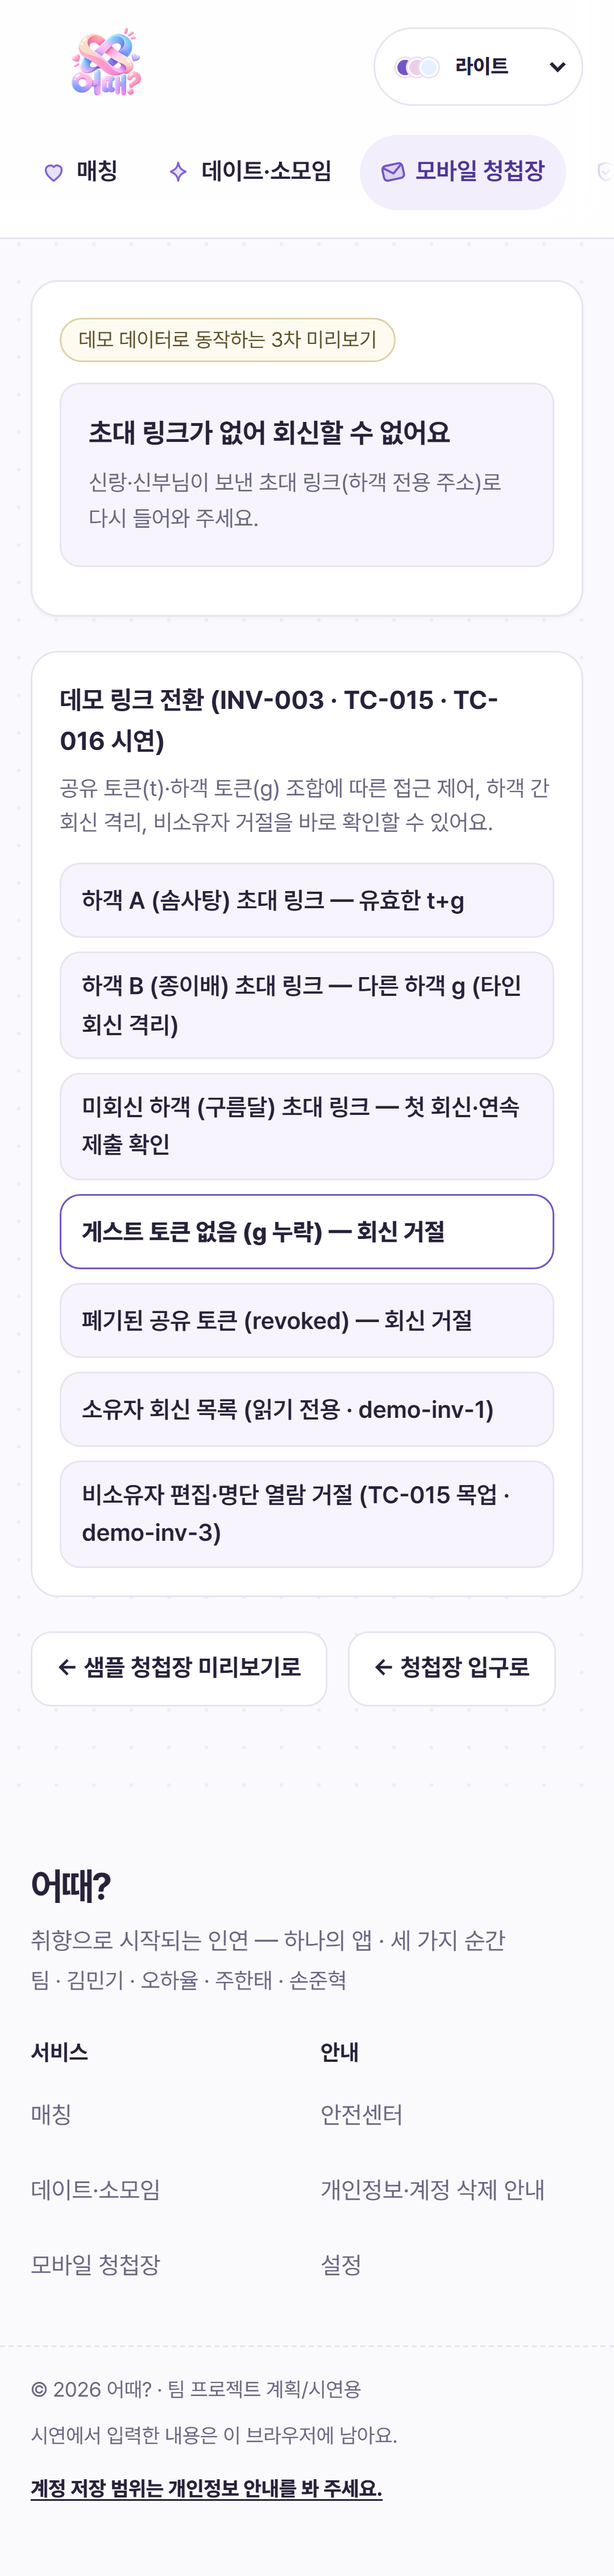
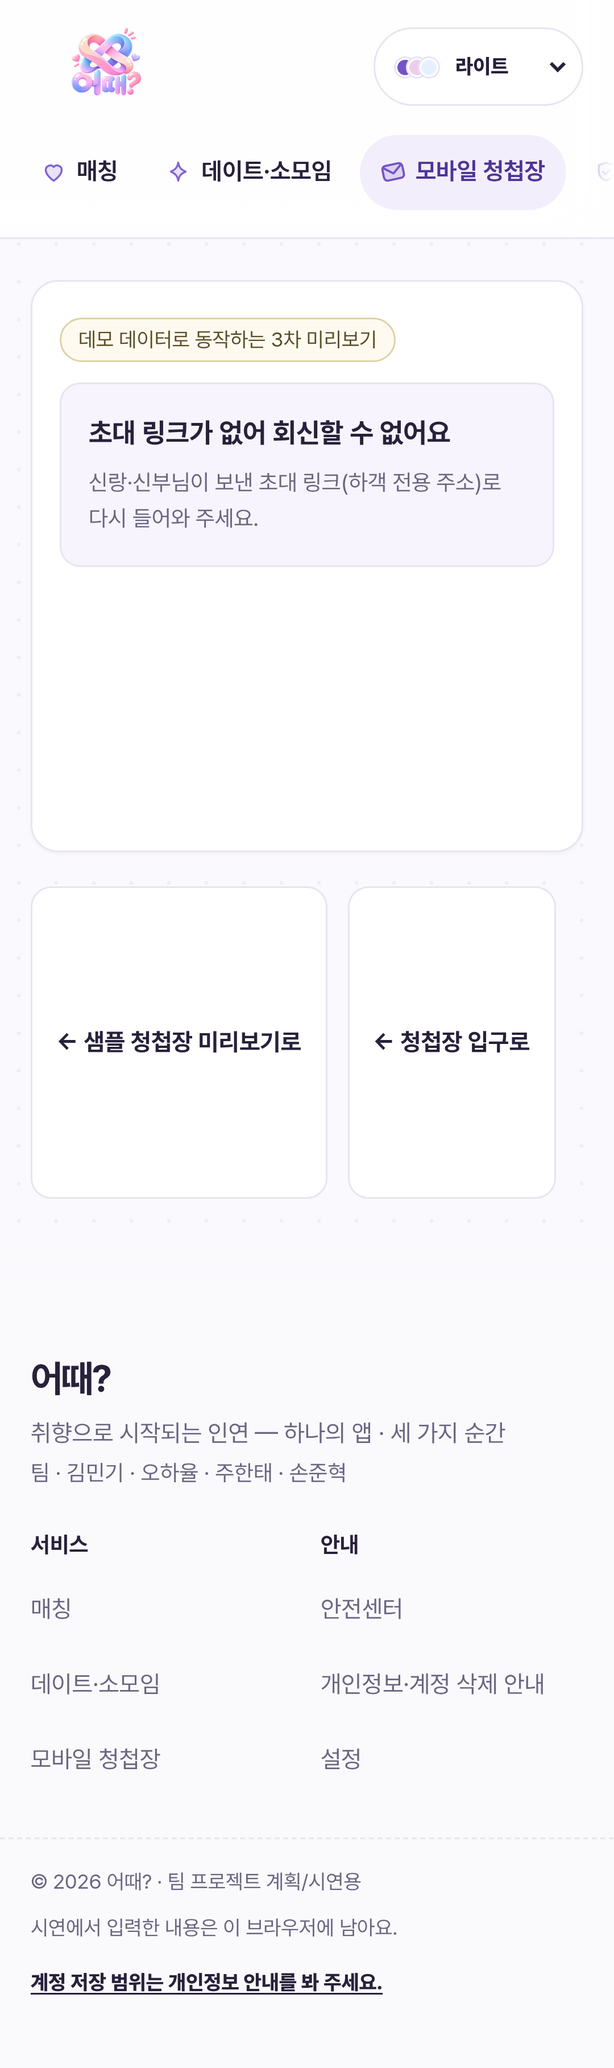
docs(CORE-004): 최종 제출 정리 — plan_v3·라우트·소유자 회신 경로·/privacy 링크·DEC-02, 캡처 20·24 재촬영 (#122)
데이터봇이 김민기(총괄) 요청으로 작성.

diff --git a/0. 소스코드/eottae-web/src/app/page.tsx b/0. 소스코드/eottae-web/src/app/page.tsx
@@ -90,6 +90,7 @@ export default function Home() {
           <div className="notice">
             팀 프로젝트 3차 최종 제출(목업) — 매칭·데이트·소모임·모바일 청첩장 모두 데모 데이터로
             체험할 수 있어요. 데모 기록은 이 브라우저에만 남고, 실제 결제·본인 확인은 연결하지 않았어요.
+            이메일 가입 시 저장 범위는 <Link href="/privacy">개인정보 안내</Link>에서 확인할 수 있어요.
           </div>
         </div>
       </section>

diff --git a/1. 프로젝트 계획서/plan_v3.md b/1. 프로젝트 계획서/plan_v3.md
@@ -18,8 +18,8 @@
 - 새 인연을 찾고, 그 관계를 데이트·모임·결혼 준비로 이어 가고 싶은 10~40대
 - 로맨스 매칭·1:1 채팅은 생일 기준 만 19세 이상 성인 확인 사용자 전용
 
-## 이번 버전 범위 (1차 MVP)
-1. **통합 홈 + 공통 PWA 틀** — 로고·내비게이션·로그인·설정(`/settings`)·6가지 테마·오프라인 화면. 2차 `/activities`는 데모(목업)로 들어가 볼 수 있다. 3차 `/invitations`는 준비중 안내가 범위다. 테마 모의 결제 화면은 저장소에 있다. PR #68은 `TEAM_ACTIVITY.md` 2026-11-02 16:08 집계에서 열린 PR이다. 실결제·RSVP는 미출시
+## 이번 버전 범위 (최종 제출 — 1·2·3차 목업)
+1. **통합 홈 + 공통 PWA 틀** — 로고·내비게이션·로그인·설정(`/settings`)·6가지 테마·오프라인 화면. 2차 `/activities`는 데모(목업)로 들어가 볼 수 있다. 3차 `/invitations`는 허브·에디터·미리보기·공개 링크(`/invitations/p/?t=`)·RSVP(`/invitations/rsvp/?t=&g=`)·소유자 정책·테마 모의 결제까지 목업으로 구현했다(이 브라우저 localStorage). 실결제·서버 RSVP는 범위 밖(DEC-11)
 2. **매칭** — 취향·가치관 프로필, 문답·공통 질문으로 궁합 확인, 카드 추천, 쌍방 관심 시 매칭 → 1:1 채팅
 3. **안전 장치** — 성인 확인 전·차단 상태면 매칭·채팅 진입 거부, 신고·차단, 차단·탈퇴 사용자는 추천·대화에서 제외, 남의 데이터는 DB 권한 규칙(RLS)으로 차단. 목업 단계(DEC-11)의 공개 배포는 시연용 성인 확인(생일 기준 만 19세) 후 매칭·채팅 데모를 열고, 실데이터 단계에서 시연 바이패스를 지워 fail-closed로 되돌린다. 클라우드 RLS 적용 전이다. 이 항목은 범위 문장이고 완료 문장이 아니다
 4. **시연 연동(결정. 2차 제출은 데모)** — 성인 확인·결제의 2차 화면은 예시 데이터 목업이다. BBaton·PayApp 실제 가입·키는 최종 제출 전(주한태). 신분증·OCR 원본은 수집하지 않음
@@ -44,7 +44,7 @@
 1. 목표 확정 (2026-10-26 완료)
 2. 계획 v1 업로드 (2026-10-26 완료)
 3. 중간 점검 1차 (2026-10-29 완료) — 공통 틀·통합 홈·6테마·매칭/채팅 데모
-4. 중간 점검 2차 ← 현재 (2026-11-02). **2차 MVP(데이트·소모임)는 데모(목업)로 구현.** 담당 강사 안내로 2차 제출은 실서비스 연동 없이 예시 데이터 데모로 한다. 핵심 루프 실데이터, BBaton·PayApp 실제 가입·키, 채팅 Realtime, 계정 삭제는 최종 제출 전이다.
+4. 중간 점검 2차 (2026-11-02 완료). **2차 MVP(데이트·소모임)는 데모(목업)로 구현.** 담당 강사 안내로 2차 제출은 실서비스 연동 없이 예시 데이터 데모로 한다. 핵심 루프 실데이터, BBaton·PayApp 실제 가입·키, 채팅 Realtime, 계정 삭제는 당시 최종 제출 전 과제였으나 DEC-11로 이번 제출 범위에서 빠졌다.
    - **머지(김민기, `TEAM_ACTIVITY.md` 2026-11-02 16:08):** #64 2차 패키지 문서. #69와 그 이후 이 트리의 `/activities` 데모 — 예시 코스 8개·소모임 13개(종료 예시 3개 포함). 목록/상세, 참가 요청, 일정 투표, 모임 만들기, 신고, 커버, 모집 뱃지는 이 브라우저 데모다. 지역 필터는 코스 탭과 소모임 탭에 적용된다. 분위기 필터는 코스 탭, 카테고리 필터는 소모임 탭에만 적용된다. 모임장 수락·거절·강퇴와 후기(별점·한줄)도 이 브라우저 데모이고, 그 화면은 GatheringManage.tsx·GatheringReviews.tsx다. 저장은 이 브라우저 localStorage. 서버 참가·실연동은 최종 전이다. 카드 뱃지: 「정원 N명」. 모집 중이면 「빈자리 N」, 남은 자리가 1~2면 「마감 임박」. 정원·마감 시각·모집 종료면 「마감」. 마감 시각은 `recruitmentEndsAt`가 없으면 `startsAtIso`다. 모임장이 모집을 다시 열면(`recruitmentForceOpen`) 마감 시각·모집 종료여도 정원이 남으면 「마감」이 아니다. 커버는 목록·상세의 ActivityCover(분위기·카테고리 기본 SVG). 이미지 첨부는 소모임 만들기 폼만, 이 브라우저 data URL, 서버 업로드 없음. 더보기(ActivityMoreMenu.tsx)와 좋아요·추천(ActivityReactions.tsx)도 ActivitiesDemo.tsx에 연결된 이 브라우저 데모다. 서버 기능 완료가 아니다
    - **머지(오하율, 같은 집계):** #65 매칭 DTO·Supabase 서비스. 서비스 모드는 환경변수 또는 로그인 세션이 없으면 `mode: 'demo'`(localStorage)다
    - **열린 PR(같은 16:08 집계):** #66, #67, #68. 그날 머지 목록은 #64·#65·#69뿐이다
@@ -52,9 +52,9 @@
    - **오늘 머지 없음:** 주한태는 2026-11-02 머지 PR이 없다. 마지막 머지는 2026-10-30 #57(가입·이메일 확인·로그인 UI, `0002`). 손준혁도 오늘 머지 PR이 없다. 마지막 머지는 2026-10-30 #60·#62·#63(매칭 캡처·기록부). 채팅 송수신은 화면 안 데모다
    - **성인 시연 확인:** 목업 단계(DEC-11)의 `deploy-pages.yml` 빌드 env는 `NEXT_PUBLIC_SUPABASE_URL`·`NEXT_PUBLIC_SUPABASE_ANON_KEY`와 함께 `NEXT_PUBLIC_DEMO_ADULT_BYPASS: '1'`이다. 그 값이 `'1'`이어도 생일 기준 만 19세 시연 확인의 `eottae_demo_adult_v1` 기록(24시간, 생년월일 원본은 저장하지 않음)이 있어야 데모 자식이 열린다. 기록 전에는 시연 확인 화면이 나온다. 확인은 로그인 세션 없는 창에서 한다. 키가 없거나 키만 있고 세션이 없으면 `demo`이고, 바이패스가 `'1'`이 아니면 매칭 자식은 「본인 확인이 연결되지 않아 열 수 없어요」이며 시연 버튼은 없다. 실데이터 단계에서 이 값을 지워 fail-closed로 되돌린다. 성인 검증이 끝난 `live` 세션은 자식 경로가 열린다. 세션 조회 실패·미인증은 `gateMessage`다. 설정의 「성인 확인(시연)」은 `demo`일 때만 나온다. 이 가드와 테마 모의 결제는 저장소에 있다. PR #68은 위 집계에서 열린 PR이다. `/activities` 데모(#69)는 이 변수 없이 연다
    - **이전 완료(유지):** 설정(#59), 서비스워커 캐시 상한(#58, 이슈 #26), README(#61). 로그인 UI(#57)와 `0001`·`0002`는 main에 있고 클라우드 `db push` 기록은 없다. iPhone TC-012는 2026-10-30 구두 확인만 있고 캡처·테스트 기록 문서는 미반영. 회원 탈퇴 버튼은 비활성(CORE-004)
-   - **최종 제출 전 실연동:** 주한태 — BBaton 실제 가입·키, 성인 게이트 실연동, PayApp 실제 가입·키·DB. 손준혁 — Supabase 실데이터 채팅·Realtime, 신고 실연동, QA. 김민기 — `db push`, 권한 부족 시 Secrets 대행, 계정 삭제 Edge Function. 협업은 이슈·PR마다 AI 코드 리뷰 후 지적 반영·머지, 팀 카톡으로 진행 공유
-5. 중간 점검 3차 (모바일 청첩장) — 작업지시서 작성 — 목업. 메인 담당 오하율(INV-001). 김민기 총괄 모니터링(INV-004, 큰 구현 없음). 주한태 INV-002·손준혁 INV-003도 목업. 지시서 `1. 프로젝트 계획서/3차_작업지시서.md`. 실데이터·서버·Supabase 호출은 이 단계 범위 아님(DEC-11·DEC-12)
-6. 최종 제출 — 실연동 뒤 채팅·신고/차단 포함 전체 시나리오(두 계정) + 권한 거부 테스트 + 구현 증빙
+   - **(DEC-11로 이번 제출 범위 밖 — 실데이터 단계 과제) 당시 계획한 실연동:** 주한태 — BBaton 실제 가입·키, 성인 게이트 실연동, PayApp 실제 가입·키·DB. 손준혁 — Supabase 실데이터 채팅·Realtime, 신고 실연동, QA. 김민기 — `db push`, 권한 부족 시 Secrets 대행, 계정 삭제 Edge Function. 협업은 이슈·PR마다 AI 코드 리뷰 후 지적 반영·머지, 팀 카톡으로 진행 공유
+5. 중간 점검 3차 (모바일 청첩장, 2026-11-06 완료) — 목업. 메인 담당 오하율(INV-001). 김민기 총괄 모니터링(INV-004, 큰 구현 없음). 주한태 INV-002·손준혁 INV-003도 목업. 지시서 `1. 프로젝트 계획서/3차_작업지시서.md`. 실데이터·서버·Supabase 호출은 이 단계 범위 아님(DEC-11·DEC-12)
+6. 최종 제출 ← 현재 (2026-11-06 22:00 KST, DEC-14) — 3차 목업이 곧 최종 제출(DEC-11). 1·2·3차 데모 전체 시나리오 + 데모 판정 권한 거부 테스트(TC 장부) + 구현 캡처 30장 + 결과 보고서·발표 PDF(#119). 실연동 뒤 두 계정 시나리오는 실데이터 단계 과제
 
 ## v2 → v3 바뀐 점과 이유
 - **현재 단계:** 중간 점검 1차 → 2차. 2차 MVP는 데모로 구현(PR #69, 강사 안내). 「로그인→성인 확인→프로필→추천→쌍방 관심」실데이터는 미완이라 완료로 쓰지 않음

diff --git a/README.md b/README.md
@@ -48,7 +48,8 @@
 | 매칭 | [`/match`](https://sterran123.github.io/eottae/match/) | 온보딩·추천·문답(40문항)·공통 질문·1:1 채팅·신고/차단 |
 | 데이트·소모임 | [`/activities`](https://sterran123.github.io/eottae/activities/) · [`/activities/new`](https://sterran123.github.io/eottae/activities/new/) | 코스·소모임 탐색, 참가 요청(중복 방지), 일정 투표, 모임 만들기 |
 | 모바일 청첩장 | [`/invitations`](https://sterran123.github.io/eottae/invitations/) · [`/invitations/new`](https://sterran123.github.io/eottae/invitations/new/) · [`/invitations/sample`](https://sterran123.github.io/eottae/invitations/sample/) | 테마 컬렉션, 만들기·편집·미리보기, 샘플 미리보기, 테마 모의 결제 |
-| 청첩장 하객·회신 | `/invitations/p/?t=…` · `/invitations/rsvp/?t=…&g=…` | 공개 하객 화면(명단 비공개·검색엔진 미노출), 공유 토큰 `t`와 하객 토큰 `g`가 모두 유효할 때만 RSVP |
+| 청첩장 하객·회신 | `/invitations/p/?t=…` · `/invitations/rsvp/?t=…&g=…` | 공개 하객 화면(명단 비공개·검색엔진 미노출), 공유 토큰 `t`와 하객 토큰 `g`가 모두 유효할 때만 하객 RSVP 폼 |
+| 청첩장 소유자 회신 목록 | [`/invitations/rsvp/?host=demo-inv-1`](https://sterran123.github.io/eottae/invitations/rsvp/?host=demo-inv-1) | 소유자 시연용 회신 목록(읽기 전용) — 하객 토큰 없이 소유자 예시 청첩장의 회신만 표시 |
 | 설정 | [`/settings`](https://sterran123.github.io/eottae/settings/) | 6테마 선택, 데모 데이터 삭제, 안전·앱 정보 |
 | 로그인 | [`/auth/login`](https://sterran123.github.io/eottae/auth/login/) | 데모 로그인 · 이메일 가입/로그인(인증 서버) |
 | 오프라인 | [`/offline`](https://sterran123.github.io/eottae/offline/) | 네트워크 끊김 안내 (서비스워커 폴백) |
@@ -62,7 +63,7 @@
 
 <table>
   <tr>
-    <td align="center" valign="top" width="33%"><img src="3.%20구현%20이미지(5장이상)/20_청첩장_테마목록_모바일.png" alt="청첩장 테마 목록" width="240"><br><sub>테마 컬렉션</sub></td>
+    <td align="center" valign="top" width="33%"><img src="3.%20구현%20이미지(5장이상)/20_청첩장_테마목록_모바일.png" alt="청첩장 허브 테마 컬렉션" width="240"><br><sub>청첩장 허브 · 테마 컬렉션</sub></td>
     <td align="center" valign="top" width="33%"><img src="3.%20구현%20이미지(5장이상)/21_청첩장_샘플미리보기_모바일.png" alt="청첩장 샘플 미리보기" width="240"><br><sub>샘플 미리보기</sub></td>
     <td align="center" valign="top" width="33%"><img src="3.%20구현%20이미지(5장이상)/22_청첩장_하객공개_명단없음_모바일.png" alt="샘플 미리보기 명단 비공개" width="240"><br><sub>샘플 미리보기 · 명단 비공개</sub></td>
   </tr>

diff --git a/0. 소스코드/eottae-web/README.md b/0. 소스코드/eottae-web/README.md
@@ -28,7 +28,7 @@ npm run build
 - `README_테스트배포.md` — 실행·검증·배포 단계와 PWA 점검 표
 
 ## 라우트
-`/` 통합 허브 / `/match` 매칭 소개(본문은 열림) / `/match/onboarding` `/match/recommend` `/match/qna` `/match/common` `/match/chat` 매칭 자식(목업 단계 DEC-11의 공개 빌드는 만 19세 시연 확인 후 데모로 열림. 기록이 없으면 시연 확인 화면. 바이패스가 `'1'`이 아니면 「본인 확인이 연결되지 않아 열 수 없어요」. 실데이터 단계에서 fail-closed로 되돌림. 세션 조회 실패·미인증은 `gateMessage`. 성인 검증이 끝난 `live` 세션은 자식 경로가 열림) / `/activities` 데이트·소모임 브라우저 데모 / `/invitations` 청첩장 본 기능은 3차 준비중, 테마 모의 결제는 저장소에 있음 / `/settings` 설정(테마·계정 안내) / `/safety` 안전 정책 / `/privacy` 개인정보·계정 삭제 안내 / `/offline` PWA 오프라인 폴백 / `/api/health` 개발 헬스 체크. `not-found`·`error`·`loading` 공통 경계 포함.
+`/` 통합 허브 / `/match` 매칭 소개(본문은 열림) / `/match/onboarding` `/match/recommend` `/match/qna` `/match/common` `/match/chat` 매칭 자식(목업 단계 DEC-11의 공개 빌드는 만 19세 시연 확인 후 데모로 열림. 기록이 없으면 시연 확인 화면. 바이패스가 `'1'`이 아니면 「본인 확인이 연결되지 않아 열 수 없어요」. 실데이터 단계에서 fail-closed로 되돌림. 세션 조회 실패·미인증은 `gateMessage`. 성인 검증이 끝난 `live` 세션은 자식 경로가 열림) / `/activities` 데이트·소모임 브라우저 데모 / `/invitations` 청첩장 허브·테마 컬렉션·테마 모의 결제(브라우저 데모) / `/invitations/new` 만들기 · `/invitations/?edit=<id>` 편집(소유자만) · `/invitations/sample` 샘플 미리보기 / `/invitations/p/?t=<공유 토큰>` 공개 하객 화면(noindex, 명단 비공개) / `/invitations/rsvp/?t=&g=` 하객 RSVP(두 토큰 모두 유효할 때만) · `?host=<id>` 소유자 회신 목록 / `/settings` 설정(테마·계정 안내) / `/safety` 안전 정책 / `/privacy` 개인정보·계정 삭제 안내 / `/offline` PWA 오프라인 폴백 / `/api/health` 개발 헬스 체크. `not-found`·`error`·`loading` 공통 경계 포함.
 
 ## 구조
 - `src/app/layout.tsx` — 공통 shell, 메타데이터(manifest·theme-color·apple), 스킵 링크

diff --git a/0. 소스코드/eottae-web/docs/AI_REPORT_LOG.md b/0. 소스코드/eottae-web/docs/AI_REPORT_LOG.md
@@ -1691,3 +1691,21 @@
 ### 검증
 - `npm run typecheck`, `npm run build` 통과(로컬).
 - 미실행: 매니페스트 재생성(마지막 단계), 청첩장 에디터·공개 화면 파일 수정 없음.
+
+## 2026-11-06 3차 최종 제출 정리 — PR #121 AI 리뷰 권장 반영·캡처 20·24 재촬영 (김민기 작업)
+
+### 요청
+- PR #121 AI 리뷰 권장: `plan_v3.md` 범위·일정 행의 옛 문구, 앱 README 라우트 줄, README 소유자 회신 경로, 홈 안내 `/privacy` 링크, DEC-02→DEC-14 연결, 옛 화면이 찍힌 캡처 20·24 재촬영.
+
+### 변경
+- `plan_v3.md`: 범위 제목·1항(3차 청첩장 목업 구현 범위), 일정 4(완료)·5(완료)·6(최종 제출 ← 현재, DEC-14), 실연동 계획 줄에 DEC-11 범위 밖 표기.
+- `0. 소스코드/eottae-web/README.md`: 라우트 줄의 `/invitations` 설명을 허브·만들기·편집·샘플·공개 `?t=`·RSVP `?t=&g=`·`?host=` 소유자 목록으로.
+- `README.md`: 표에 `/invitations/rsvp/?host=demo-inv-1` 소유자 회신 목록(읽기 전용) 행 추가(`rsvp/page.tsx`의 `hostId` 분기 대조), 캡처 20 부제 「청첩장 허브 · 테마 컬렉션」.
+- `src/app/page.tsx`: 히어로 안내에 이메일 가입 저장 범위 `/privacy` 링크.
+- `실행_결정대기_로그.md`: DEC-02 칸에 DEC-14 마감 연결.
+- `3. 구현 이미지(5장이상)/20_청첩장_테마목록_모바일.png`, `24_청첩장_RSVP_토큰거절_모바일.png`: 배포 사이트(main 266e89d)를 Linux 헤드리스 Chrome 156, 360px·3x로 재촬영. 20은 테마 16종이 세로로 이어져 전체 높이가 45,297px·23MB라, 기존 캡처와 같은 높이(10,836px, 테마 4종까지)로 잘라 256색 PNG(1.7MB)로 저장. 24는 `?t=<공유 토큰>`만(g 누락) 전체 높이 — 데모 링크 목록 없이 거절 안내만 보이는 현재 화면. `captions.csv` 20·24 행 갱신.
+
+### 검증
+- `npm run typecheck`, `npm run build` 통과(로컬).
+- 미실행: 매니페스트 재생성(마지막 단계). 청첩장 에디터·공개 화면 코드 수정 없음.
+- 관찰(코드 미수정): 24 화면에서 거절 카드 아래 빈 공간이 크고 「← 샘플 청첩장 미리보기로」·「← 청첩장 입구로」 버튼이 세로로 길게 늘어남 — RSVP 페이지 레이아웃(오하율·손준혁 영역) 후속 확인 필요.

diff --git a/1. 프로젝트 계획서/실행_결정대기_로그.md b/1. 프로젝트 계획서/실행_결정대기_로그.md
@@ -2,7 +2,7 @@
 | ID | 이슈 | 왜 결정이 필요한가 | 오너 | 1차 상태 |
 |---|---|---|---|---|
 | DEC-01 | 정식 성인확인 업체/연동/비용 | 로맨스 매칭 실사용 공개 전 필수 | 주한태/김민기 | 1차: 미결정; 공개 배포 금지. 2026-10-30 김민기 결정(#21 댓글): 시연은 BBaton 연동, 성인 기준은 생일 기준 만 19세, 신분증·OCR 원본 미수집. 공개 배포는 fail-closed 유지(ADR-002). 정식 출시 계약·비용은 미결. 가입·키 발급·Secrets 등록부터 구현까지 주한태(권한이 안 되면 김민기가 대행). 값 본문은 이슈·채팅·제출안에 남기지 않음. |
-| DEC-02 | 개발 기간·학교/학원 양식·발표일 | 제출 실제 일정 명시 필요 | 김민기 | 미결정(12주 가설) |
+| DEC-02 | 개발 기간·학교/학원 양식·발표일 | 제출 실제 일정 명시 필요 | 김민기 | 미결정(12주 가설). 최종 제출 마감은 DEC-14(2026-11-06 22:00 KST)로 확정, 발표일은 미기재 |
 | DEC-03 | 서비스 운영/신고 처리 인력 | 악용신고·성인 사용자 보호 | 손준혁 | 미결정 |
 | DEC-04 | 도메인·호스팅·DB/알림 예산 | 보안/운영·비용 통제 | 김민기 | 일부 확정(2026-10-27): 호스팅 GitHub Pages·DB Supabase 무료 플랜(김민기 소유, ADR-005). 도메인·알림·유료 전환은 미결정 |
 | DEC-05 | 2차 위치·장소정보 공급자 | 정확도/상업용 API/약관 | 오하율·주한태 | 2차 이전 검증 |
